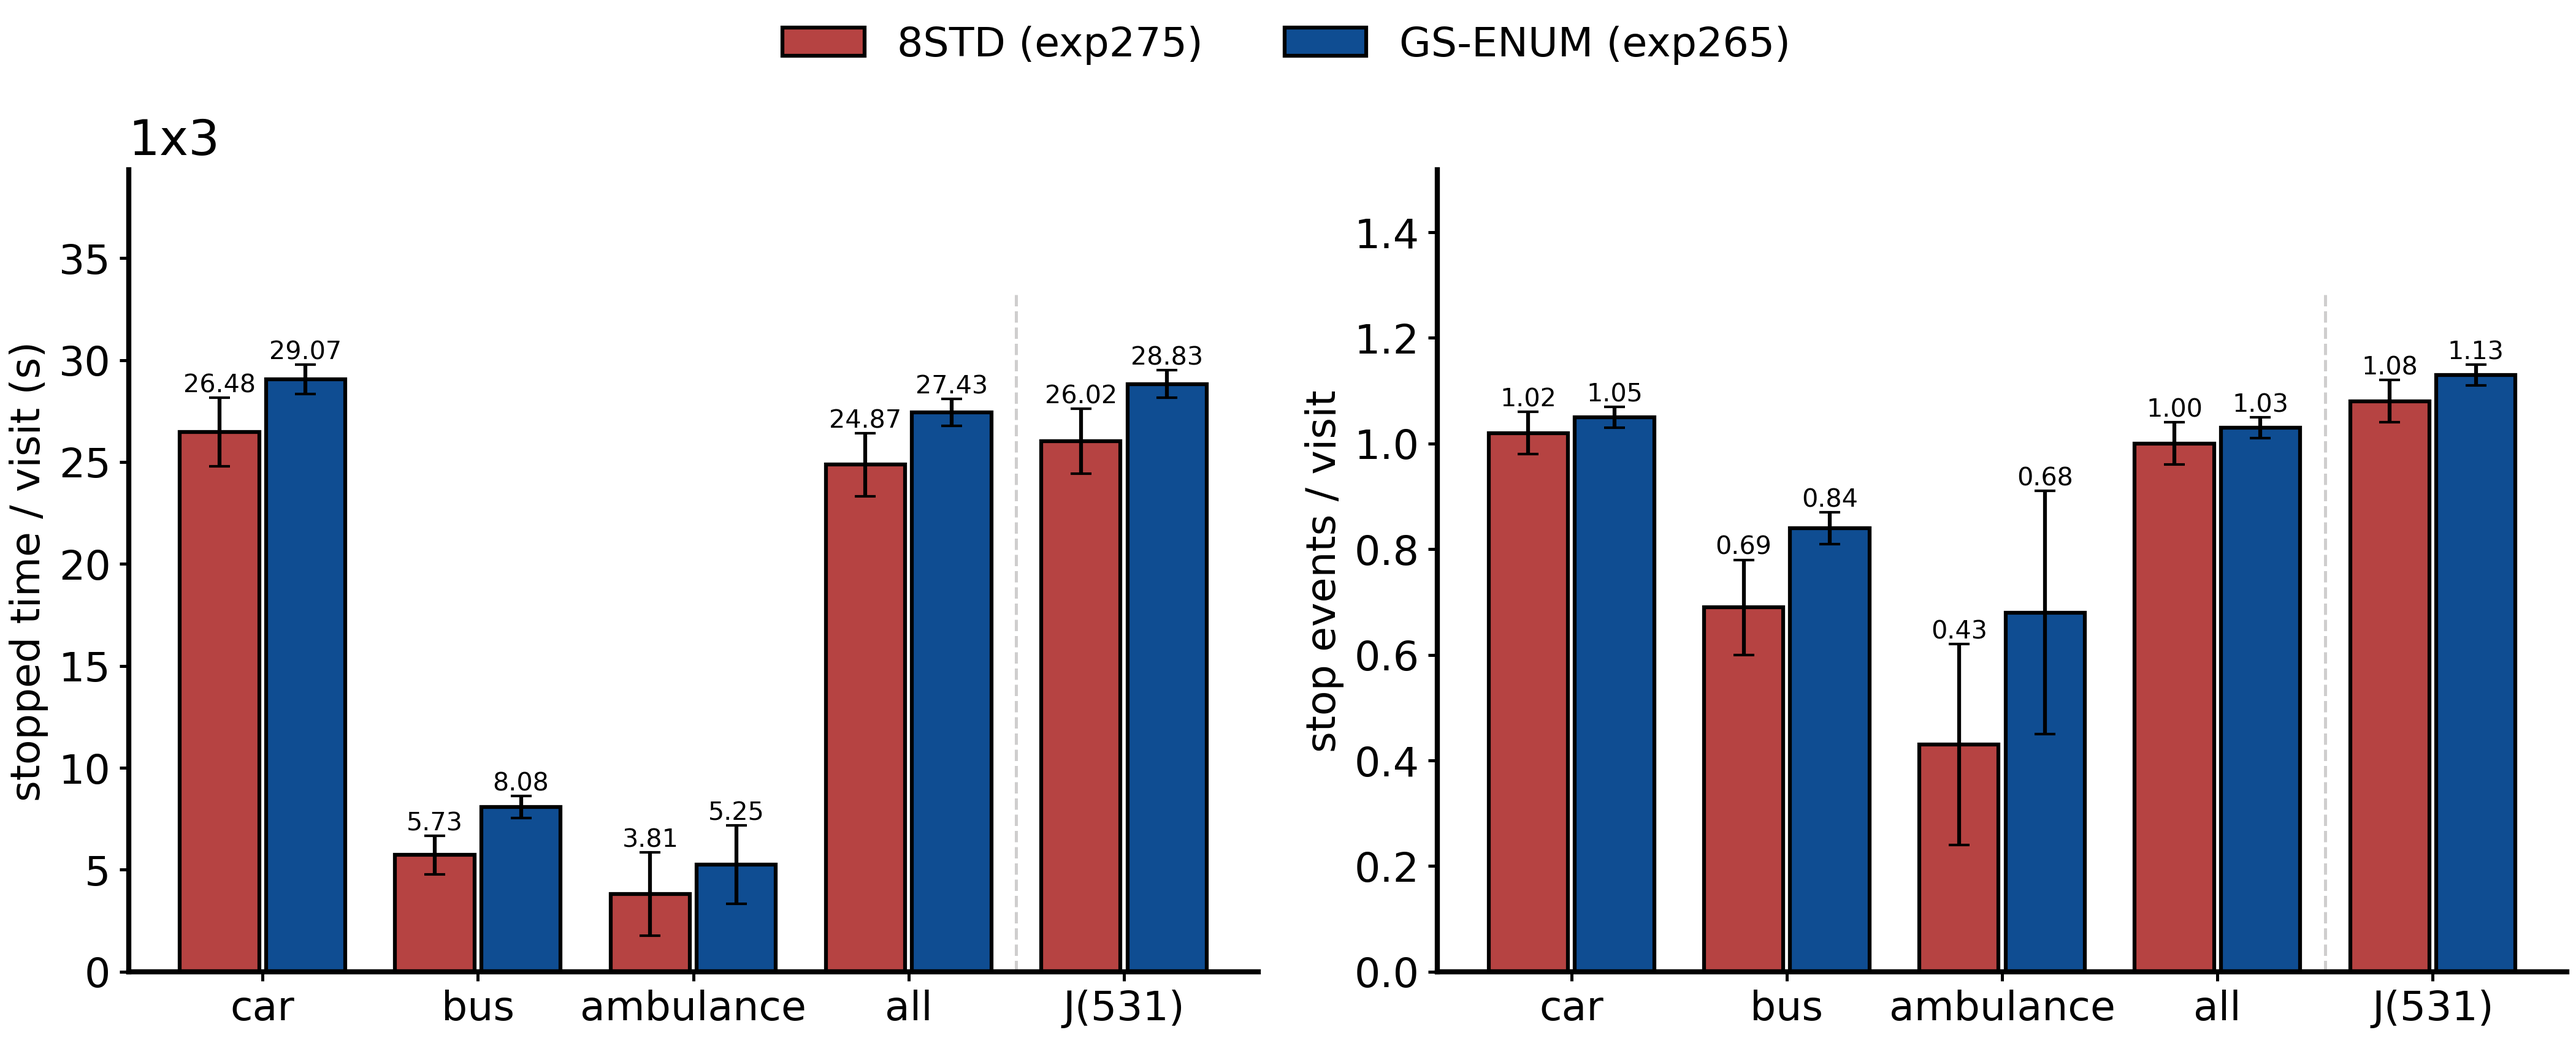
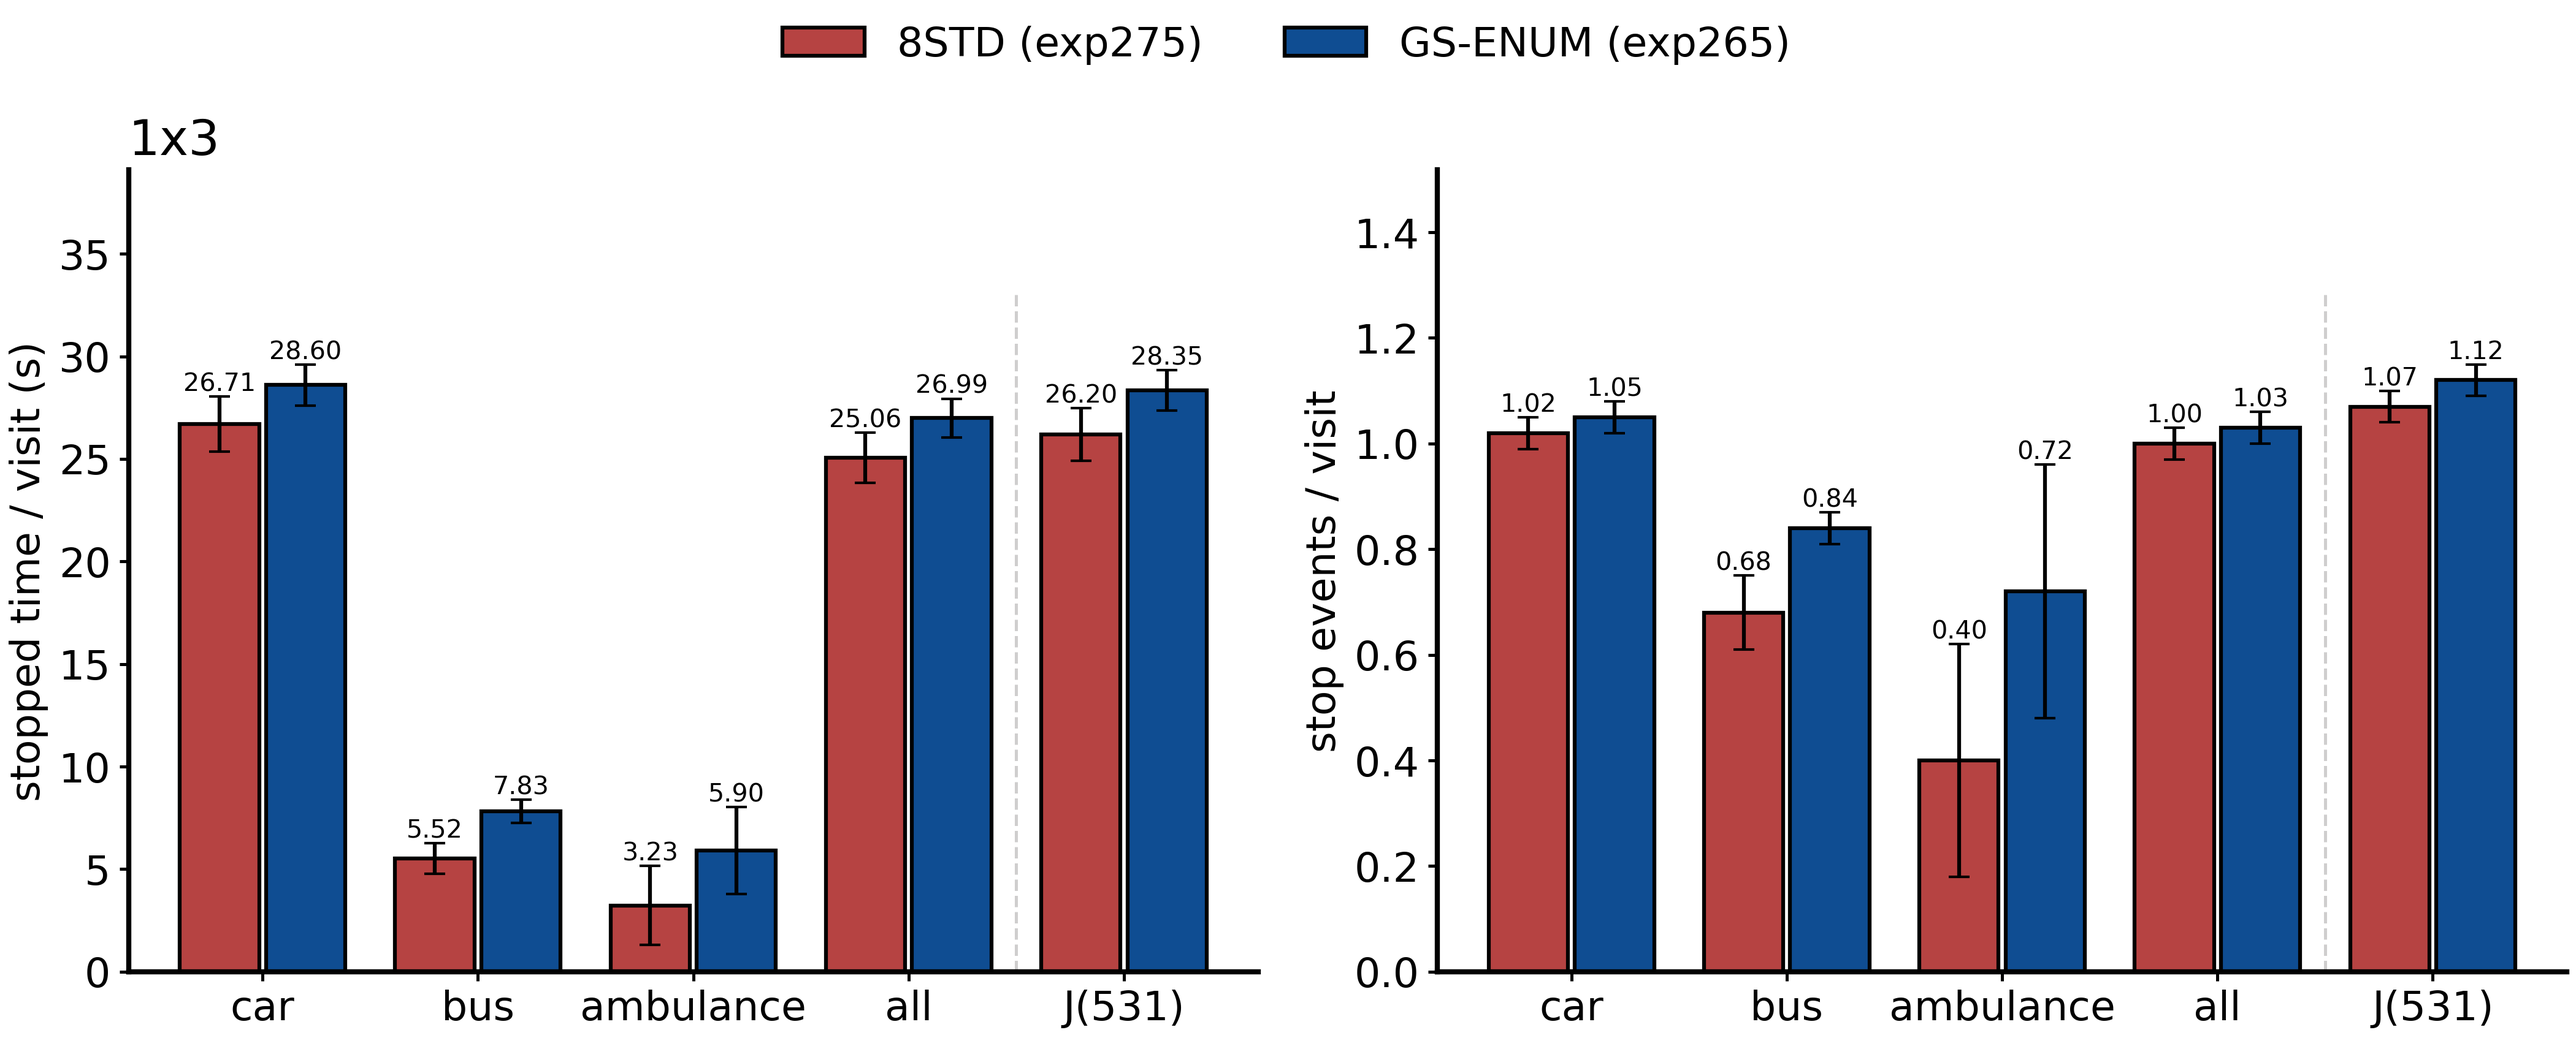
1x3 四张图更新为 275/265 最终尾40 (275 至 4706 集, 265 至 4088 集); Dublin/1x1 图内容不变

diff --git a/experiments/tools/figures/plot_main_comparison_2026-09-02.py b/experiments/tools/figures/plot_main_comparison_2026-09-02.py
@@ -67,12 +67,12 @@ SCEN = [
     xts={"xts stopped time (s)": M([32.40,7.46,5.38,31.06],[2.19,1.32,2.37,2.06],[31.30,7.25,4.50,30.00],[2.19,1.10,2.84,2.11],[32.06,81.67],[2.10,13.73],[30.97,75.54],[2.19,15.59]),
          "xts stop events":      M([1.13,0.85,0.49,1.11],[0.05,0.08,0.14,0.05],[1.11,0.79,0.47,1.10],[0.07,0.07,0.16,0.07],[1.18,6.12],[0.05,0.76],[1.16,5.86],[0.07,0.80]),
          "xts speed (m/s)":      M([3.49,6.99,8.54,3.59],[0.17,0.39,1.08,0.17],[3.57,7.11,8.32,3.67],[0.18,0.31,1.32,0.18],[4.14,67.15],[0.16,5.87],[4.23,66.51],[0.19,6.56])}),
-  dict(name="1x3", exps=("exp275", "exp265"),   # 主对 (统一稳定值 γ0.99, perphase); 2026-09-02 20:57 截取: 275 至 4288/5000, 265 至 3722/5000
-    pervisit={"stopped time / visit (s)": M([26.48,5.73,3.81,24.87],[1.68,0.95,2.04,1.54],[29.07,8.08,5.25,27.43],[0.72,0.53,1.93,0.66],[26.02,62.72],[1.58,10.90],[28.83,79.57],[0.68,9.51]),
-              "stop events / visit":       M([1.02,0.69,0.43,1.00],[0.04,0.09,0.19,0.04],[1.05,0.84,0.68,1.03],[0.02,0.03,0.23,0.02],[1.08,5.27],[0.04,0.96],[1.13,6.95],[0.02,1.16])},
-    xts={"xts stopped time (s)": M([28.92,5.73,3.81,27.64],[1.76,0.95,2.04,1.64],[32.78,8.08,5.25,31.40],[0.80,0.53,1.93,0.75],[28.33,65.16],[1.63,10.81],[32.36,83.28],[0.76,9.67]),
-         "xts stop events":      M([1.07,0.69,0.43,1.05],[0.04,0.09,0.19,0.04],[1.10,0.84,0.68,1.08],[0.02,0.03,0.23,0.02],[1.12,5.31],[0.04,0.96],[1.17,7.00],[0.02,1.16]),
-         "xts speed (m/s)":      M([3.65,7.66,8.33,3.77],[0.15,0.38,1.08,0.15],[3.36,6.98,7.31,3.47],[0.05,0.14,0.90,0.05],[4.64,68.26],[0.13,5.55],[4.25,60.84],[0.06,4.52])}),
+  dict(name="1x3", exps=("exp275", "exp265"),   # 主对 (统一稳定值 γ0.99, perphase); 最终尾40 (275 至 4706 集, 265 至 4088 集, 用户中止于平台)
+    pervisit={"stopped time / visit (s)": M([26.71,5.52,3.23,25.06],[1.34,0.74,1.93,1.23],[28.60,7.83,5.90,26.99],[1.01,0.57,2.12,0.95],[26.20,59.42],[1.28,10.33],[28.35,81.56],[0.99,11.11]),
+              "stop events / visit":       M([1.02,0.68,0.40,1.00],[0.03,0.07,0.22,0.03],[1.05,0.84,0.72,1.03],[0.03,0.03,0.24,0.03],[1.07,5.06],[0.03,1.12],[1.12,7.17],[0.03,1.22])},
+    xts={"xts stopped time (s)": M([29.40,5.52,3.23,28.08],[1.44,0.74,1.93,1.35],[32.21,7.83,5.90,30.85],[1.15,0.57,2.12,1.09],[28.76,62.11],[1.35,10.34],[31.77,85.17],[1.11,11.19]),
+         "xts stop events":      M([1.07,0.68,0.40,1.05],[0.03,0.07,0.22,0.03],[1.10,0.84,0.72,1.08],[0.03,0.03,0.24,0.03],[1.12,5.11],[0.03,1.12],[1.17,7.22],[0.03,1.22]),
+         "xts speed (m/s)":      M([3.62,7.73,8.45,3.73],[0.11,0.30,1.01,0.11],[3.40,7.02,7.04,3.51],[0.09,0.15,0.91,0.09],[4.61,69.07],[0.11,5.16],[4.30,59.65],[0.09,4.60])}),
 ]
 
 def panel_group(sc, metrics, suffix):
